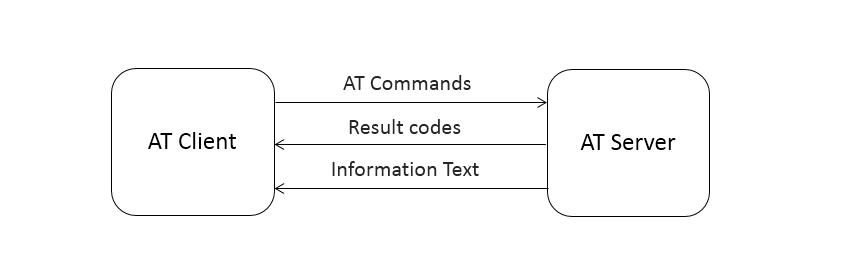
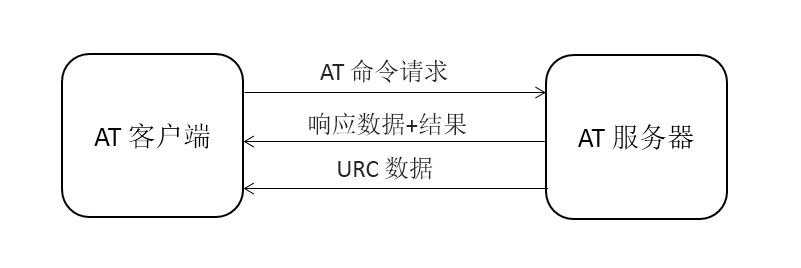
【完善】AT 组件文档部分细节

diff --git a/zh/1chapters/17-chapter_at.md b/zh/1chapters/17-chapter_at.md
@@ -19,19 +19,24 @@ AT 命令集是一种应用于 AT 服务器（AT Server）与 AT 客户端（AT 
 
 - AT 功能的实现需要 AT Server 和 AT Client 两个部分共同完成；
 
-- AT Server 主要用于接收 AT Client 发送的命令，判断接收的命令及参数格式，并下发对应的回应数据，或者主动下发数据；
+- AT Server 主要用于接收 AT Client 发送的命令，判断接收的命令及参数格式，并下发对应的响应数据，或者主动下发数据；
 
-- AT Client 主要用于发送命令、等待 AT Server 回应，并对 AT Server 回应数据或主动发送的数据进行解析处理，获取相关信息。
+- AT Client 主要用于发送命令、等待 AT Server 响应，并对 AT Server 响应数据或主动发送的数据进行解析处理，获取相关信息。
 
 - AT Server 和 AT Client 之间支持多种数据通讯的方式（UART、SPI等），目前最常用的是串口 UART 通讯方式。
 
-- AT Server 向 AT Client 发送的数据分成两种：回应数据和 URC 数据。其中回应数据是 AT Client 发送命令之后收到的 AT Server 回应状态和信息；URC 数据是 AT Server 主动发送给 AT Client 的数据。URC 数据一般出现在一些特殊的情况，比如 WIFI 连接断开、TCP 接收数据等，这些情况往往需要用户做出相应操作。
+- AT Server 向 AT Client 发送的数据分成两种：响应数据和 URC 数据。
+
+    - 响应数据： AT Client 发送命令之后收到的 AT Server 响应状态和信息；
+    - URC 数据： AT Server 主动发送给 AT Client 的数据，一般出现在一些特殊的情况，比如 WIFI 连接断开、TCP 接收数据等，这些情况往往需要用户做出相应操作。
 
 ### AT 组件介绍 ###
 
-AT 组件是基于 RT-Thread 系统的 `AT Server` 和 `AT Client` 的实现，组件完成 AT 命令的发送、命令格式及参数判断、命令的回应、回应数据的接收、回应数据的解析、URC 数据处理等整个 AT 命令数据交互流程。设备通过 AT 组件设备可以作为 AT Client 使用串口连接其他设备发送并接收解析数据，可以作为 AT Server 让其他设备甚至电脑端连接完成发送数据的回应，也可以在本地 shell 启动 CLI 模式使设备同时支持 AT Server 和 AT Clinet 功能，该模式多用于设备开发调试。
+AT 组件是基于 RT-Thread 系统的 `AT Server` 和 `AT Client` 的实现，组件完成 AT 命令的发送、命令格式及参数判断、命令的响应、响应数据的接收、响应数据的解析、URC 数据处理等整个 AT 命令数据交互流程。通过 AT 组件设备可以作为 AT Client 使用串口连接其他设备发送并接收解析数据，可以作为 AT Server 让其他设备甚至电脑端连接完成发送数据的响应，也可以在本地 shell 启动 CLI 模式使设备同时支持 AT Server 和 AT Clinet 功能，该模式多用于设备开发调试。
 
-AT 组件代码主要位于`rt-thread/components/net/at/`目录中。主要的功能包括如下,  
+AT 组件中 AT Client 功能占用资源体积为 4.3K ROM 和 2.0K RAM；AT Server 功能占用资源体积为 4.0K ROM 和 2.5K RAM；AT CLI 功能占用资源体积为 1.5K ROM 几乎没有使用 RAM。AT 组件总体资源占用极小，因此非常适用应用于资源有限的嵌入式设备中。
+
+AT 组件代码主要位于 `rt-thread/components/net/at/` 目录中。主要的功能包括如下,  
 
 AT Server 主要功能特点： 
 
@@ -44,7 +49,7 @@ AT Server 主要功能特点：
  AT Client 主要功能： 
 
  - URC 数据处理： 完备的 URC 数据的处理方式； 
- - 数据解析： 支持自定义回应数据的解析方式，方便获取回应数据中相关信息；
+ - 数据解析： 支持自定义响应数据的解析方式，方便获取响应数据中相关信息；
  - 调试模式： 提供 AT Client CLI 命令行交互模式，主要用于设备调试。
  - AT Socket：作为 AT Client 功能的延伸，使用 AT 命令收发作为基础，实现标准的 `POSIX` 网络接口，完成数据的收发功能，使用户通过 AT 命令完成设备连网和数据通讯。
 
@@ -331,9 +336,22 @@ AT Server 默认已支持多种基础命令（ATE、ATZ 等），其中部分命
 - `RT_AT_CLIENT_DEVICE`： 定义设备上 AT Client 功能使用的串口通讯设备的名称，确保未被使用且设备唯一，这里使用的是 `uart2` 设备；
 - `RT_AT_SERVER_RECV_BUFF_LEN`：定义 AT Client 设备最大接收数据的长度；
 
-AT Client 中的调试配置方式和 AT Server 中一致，这里不再重复介绍。
+上面配置选项可以直接在 `rtconfig.h` 文件中添加使用，也可以通过组件包管理工具 ENV 配置选项加入，ENV 中具体路径如下：
 
-上面配置选项可以直接在 `rtconfig.h` 文件中添加使用，也可以通过组件包管理工具 ENV 配置选项加入，ENV 配置选项的位置和 AT Server 中配置一致。添加配置完成之后可以使用命令行重新生成工程，或使用 scons 来进行编译生成。
+```C
+RT-Thread Components  ---> 
+     Network stack  --->
+        AT commands  --->
+             [*] Enable AT commands 
+             [ ]   Enable debug log output    
+             [ ]   Enable AT commands server
+             [*]   Enable AT commands client
+             (uart2) Client device name
+             (512)   The maximum length of client data accepted        
+             [ ]   Enable print RAW format AT command communication data           
+```
+
+添加配置完成之后可以使用命令行重新生成工程，或使用 scons 来进行编译生成。
 
 ### AT Client 初始化 ###
 
@@ -368,73 +386,73 @@ struct rt_at_response
 typedef struct rt_at_response *rt_at_response_t;
 ```
 
-AT 组件中，该结构体用于定义一个 AT Server 回应数据的控制块，用于存放或者限制 AT Server 返回数据的部分格式。其中 `buf` 用于存放接收到的回应数据，注意的是 buf 中存放的数据并不是原始回应数据，而是原始回应数据去除结束符（"\r\n"）的数据，buf 中每行数据以 '\0' 分割，方便按行获取数据。`buf_size` 为用户自定义本次回应最大支持的接收数据的长度，由用户根据自己命令返回值长度定义。`line_num` 为用户自定义的本次回应数据需要接收的行数，如果没有行数限定需求可以置为 0。 `line_counts` 用于记录本次回应数据总行数。`timeout` 为用户自定义的本次回应数据最大回应时间。该结构体中 `buf_size`、`line_num`、`timeout` 三个参数为限制条件，在结构体创建时设置，其他参数为存放数据参数，用于后面数据解析。
+AT 组件中，该结构体用于定义一个 AT Server 响应数据的控制块，用于存放或者限制 AT Server 返回数据的部分格式。其中 `buf` 用于存放接收到的响应数据，注意的是 buf 中存放的数据并不是原始响应数据，而是原始响应数据去除结束符（"\r\n"）的数据，buf 中每行数据以 '\0' 分割，方便按行获取数据。`buf_size` 为用户自定义本次响应最大支持的接收数据的长度，由用户根据自己命令返回值长度定义。`line_num` 为用户自定义的本次响应数据需要接收的行数，如果没有行数限定需求可以置为 0。 `line_counts` 用于记录本次响应数据总行数。`timeout` 为用户自定义的本次响应数据最大响应时间。该结构体中 `buf_size`、`line_num`、`timeout` 三个参数为限制条件，在结构体创建时设置，其他参数为存放数据参数，用于后面数据解析。
 
 相关 API 接口介绍：
 
-#### 创建回应结构体 ####
+#### 创建响应结构体 ####
 
     rt_at_response_t rt_at_create_resp(rt_size_t buf_size, rt_size_t line_num, rt_int32_t timeout);
 
-该函数用于创建自定义的回应数据接收结构，用于后面接收并解析发送命令回应数据。
+该函数用于创建自定义的响应数据接收结构，用于后面接收并解析发送命令响应数据。
 
 + 参数
 
-    buf_size： 本次回应最大支持的接收数据的长度。  
-    line_num： 本次回应需要返回数据的行数，行数是以标准结束符划分。  
-               若为 0 ，则接收到 "OK" 或 "ERROR" 数据后结束本次回应接收。  
+    buf_size： 本次响应最大支持的接收数据的长度。  
+    line_num： 本次响应需要返回数据的行数，行数是以标准结束符划分。  
+               若为 0 ，则接收到 "OK" 或 "ERROR" 数据后结束本次响应接收。  
                若大于 0，接收完当前设置行号的数据后返回成功。  
-    timeout：  本次回应数据最大回应时间，数据接收超时返回错误。
+    timeout：  本次响应数据最大响应时间，数据接收超时返回错误。
 
 + 返回
 
-    != NULL： 成功，返回指向回应结构体的指针。  
+    != NULL： 成功，返回指向响应结构体的指针。  
      = NULL： 失败，内存不足
 
-#### 删除回应结构体 ####
+#### 删除响应结构体 ####
 
     void rt_at_delete_resp(rt_at_response_t resp);
 
-该函数用于删除创建的回应结构体对象，一般与 **rt_at_create_resp** 创建函数成对出现。
+该函数用于删除创建的响应结构体对象，一般与 **rt_at_create_resp** 创建函数成对出现。
 
 + 参数
 
-    resp： 准备删除的回应结构体指针。
+    resp： 准备删除的响应结构体指针。
 
 + 返回
 
     无
 
-#### 设置回应结构体参数 ####
+#### 设置响应结构体参数 ####
 
     rt_at_response_t rt_at_resp_set_info(rt_at_response_t resp, rt_size_t buf_size, rt_size_t line_num, rt_int32_t timeout);
 
-该函数用于设置已经创建的回应结构体信息，主要设置对回应数据的限制信息，一般用于创建结构体之后，发送 AT 命令之前。
+该函数用于设置已经创建的响应结构体信息，主要设置对响应数据的限制信息，一般用于创建结构体之后，发送 AT 命令之前。
 
 + 参数
 
-    resp： 已经创建的回应结构体指针。  
-    buf_size： 本次回应最大支持的接收数据的长度。  
-    line_num： 本次回应需要返回数据的行数，行数是以标准结束符划分。  
-               若为 0 ，则接收到 "OK" 或 "ERROR" 数据后结束本次回应接收。  
+    resp： 已经创建的响应结构体指针。  
+    buf_size： 本次响应最大支持的接收数据的长度。  
+    line_num： 本次响应需要返回数据的行数，行数是以标准结束符划分。  
+               若为 0 ，则接收到 "OK" 或 "ERROR" 数据后结束本次响应接收。  
                若大于 0，接收到当前设置行号数据后返回成功。  
-    timeout：  本次回应数据最大回应时间，数据接收超时返回错误。
+    timeout：  本次响应数据最大响应时间，数据接收超时返回错误。
 
 + 返回
 
-    != NULL： 成功，返回修改过参数的回应结构体的指针。  
+    != NULL： 成功，返回修改过参数的响应结构体的指针。  
      = NULL： 失败，内存不足
 
 
-#### 发送命令并接收回应 ####
+#### 发送命令并接收响应 ####
 
 `rt_err_t rt_at_exec_cmd(rt_at_response_t resp const char *cmd_expr, ...);`
 
-该函数用于 AT Client 发送命令到 AT Server，并等待接收回应，其中 `resp` 是已经创建好回应结构体的指针，AT 命令的输入使用匹配表达式的可变参输入。
+该函数用于 AT Client 发送命令到 AT Server，并等待接收响应，其中 `resp` 是已经创建好响应结构体的指针，AT 命令的输入使用匹配表达式的可变参输入。
 
 + 参数
 
-    resp： 创建的回应结构体指针。  
+    resp： 创建的响应结构体指针。  
     cmd_expr： 自定义输入命令的表达式。    
     ...： 输入命令数据列表，为可变参数。  
 
@@ -442,13 +460,13 @@ AT 组件中，该结构体用于定义一个 AT Server 回应数据的控制块
 
     \>=0： 成功  
       -1： 失败  
-      -2： 失败，接收回应超时  
+      -2： 失败，接收响应超时  
 
 可参考以下代码了解如何使用以上几个 AT 命令收发相关函数使用方式：
 
 ```c
 /*
- * 程序清单：AT Client发送命令并接收回应例程
+ * 程序清单：AT Client发送命令并接收响应例程
  */
 
 #include <rtthread.h>
@@ -464,7 +482,7 @@ int at_client_send(int argc, char **argv)
         return -RT_ERROR;
     }
 
-    /* 创建回应结构体，设置最大支持回应数据长度为 512 字节，回应数据行数无限制，超时时间为 5 秒 */
+    /* 创建响应结构体，设置最大支持响应数据长度为 512 字节，响应数据行数无限制，超时时间为 5 秒 */
     resp = rt_at_create_resp(512, 0, rt_tick_from_millisecond(5000));
     if (!resp)
     {
@@ -472,7 +490,7 @@ int at_client_send(int argc, char **argv)
         return -RT_ENOMEM;
     }
    
-    /* 发送 AT 命令并接收 AT Server 回应数据，数据及信息存放在 resp 结构体中 */
+    /* 发送 AT 命令并接收 AT Server 响应数据，数据及信息存放在 resp 结构体中 */
     if (rt_at_exec_cmd(resp, argv[1]) != RT_EOK)
     {
         LOG_E("AT client send commands failed, response error or timeout !");
@@ -482,7 +500,7 @@ int at_client_send(int argc, char **argv)
     /* 命令发送成功 */
     LOG_D("AT Client send commands to AT Server success!");
 
-    /* 删除回应结构体 */
+    /* 删除响应结构体 */
     rt_at_delete_resp(resp);
 
     return RT_EOK;
@@ -494,23 +512,23 @@ MSH_CMD_EXPORT(at_clinet_send, AT Client send commands to AT Server and get resp
 #endif
 ```
 
-发送和接收数据实现原理比较简单，主要是对 AT Client 绑定的串口设备的读写操作，并设置相关行数和超时来限制回应数据，值得注意的是，正常情况下需要先创建 resp 回应结构体传入 rt_at_exec_cmd 函数用于数据的接收，当 rt_at_exec_cmd 函数传入 resp 为空时说明本次发送数据不考虑处理回应数据直接返回结果。
+发送和接收数据实现原理比较简单，主要是对 AT Client 绑定的串口设备的读写操作，并设置相关行数和超时来限制响应数据，值得注意的是，正常情况下需要先创建 resp 响应结构体传入 rt_at_exec_cmd 函数用于数据的接收，当 rt_at_exec_cmd 函数传入 resp 为空时说明本次发送数据不考虑处理响应数据直接返回结果。
 
 ### 数据解析 ###
 
-数据正常获取之后，需要对回应的数据进行解析处理，这也是 AT Client 重要的功能之一。 AT Client 中数据的解析提供自定义解析表达式的解析形式，其解析语法使用标准的 `sscanf` 解析语法。开发者可以通过自定义数据解析表达式回去回应数据中有用信息，前提是开发者需要提前查看相关手册了解 AT Client 连接的 AT Server 设备回应数据的基本格式。下面通过几个函数和例程简单 AT Client 数据解析方式。
+数据正常获取之后，需要对响应的数据进行解析处理，这也是 AT Client 重要的功能之一。 AT Client 中数据的解析提供自定义解析表达式的解析形式，其解析语法使用标准的 `sscanf` 解析语法。开发者可以通过自定义数据解析表达式回去响应数据中有用信息，前提是开发者需要提前查看相关手册了解 AT Client 连接的 AT Server 设备响应数据的基本格式。下面通过几个函数和例程简单 AT Client 数据解析方式。
 
 相关 API 接口：
 
-#### 获取指定行号的回应数据 ####
+#### 获取指定行号的响应数据 ####
 
     const char *at_resp_get_line(rt_at_response_t resp, rt_size_t resp_line);
 
-该函数用于在 AT Server 回应数据中获取指定行号的一行数据。行号是以标准数据结束符来判断的，上述发送和接收函数 rt_at_exec_cmd 已经对回应数据的数据和行号进行记录处理存放于 resp 回应结构体中，这里可以直接获取对应行号的数据信息。
+该函数用于在 AT Server 响应数据中获取指定行号的一行数据。行号是以标准数据结束符来判断的，上述发送和接收函数 rt_at_exec_cmd 已经对响应数据的数据和行号进行记录处理存放于 resp 响应结构体中，这里可以直接获取对应行号的数据信息。
 
 + 参数
 
-    resp： 回应结构体指针。  
+    resp： 响应结构体指针。  
     resp_line： 需要获取数据的行号。   
 
 + 返回
@@ -519,15 +537,15 @@ MSH_CMD_EXPORT(at_clinet_send, AT Client send commands to AT Server and get resp
      = NULL： 失败，输入行号错误。  
 
 
-#### 解析指定行号的回应数据 ####
+#### 解析指定行号的响应数据 ####
 
     int at_resp_parse_line_args(rt_at_response_t resp, rt_size_t resp_line, const char *resp_expr, ...);
 
-该函数用于在 AT Server 回应数据中获取指定行号的一行数据, 并解析该行数据中的参数。
+该函数用于在 AT Server 响应数据中获取指定行号的一行数据, 并解析该行数据中的参数。
 
 + 参数
 
-    resp： 回应结构体指针。  
+    resp： 响应结构体指针。  
     resp_line： 需要解析数据的行号。
     resp_expr： 自定义的参数解析表达式。  
     ...： 解析参数列表，为可变参数。  
@@ -549,7 +567,7 @@ MSH_CMD_EXPORT(at_clinet_send, AT Client send commands to AT Server and get resp
     
     AT+UART?
 
-客户端获取回应的数据：
+客户端获取响应的数据：
     
     UART=115200,8,1,0,0\r\n
     OK\r\n
@@ -557,19 +575,19 @@ MSH_CMD_EXPORT(at_clinet_send, AT Client send commands to AT Server and get resp
 解析伪代码如下：
 
 ```c
-/* 创建服务器回应结构体，64 为用户自定义接收数据最大长度 */
+/* 创建服务器响应结构体，64 为用户自定义接收数据最大长度 */
 resp = rt_at_create_resp(64, 0, rt_tick_from_millisecond(5000));
 
-/* 发送数据到服务器，并接收回应数据存放在 resp 结构体中 */
+/* 发送数据到服务器，并接收响应数据存放在 resp 结构体中 */
 rt_at_exec_cmd(resp, "AT+UART?");
 
-/* 解析获取串口配置信息，1 表示解析回应数据第一行，'%*[^=]'表示忽略等号之前的数据 */
+/* 解析获取串口配置信息，1 表示解析响应数据第一行，'%*[^=]'表示忽略等号之前的数据 */
 at_resp_parse_line_args(resp, 1,"%*[^=]=%d,%d,%d,%d,%d", &baudrate, &databits,
         &stopbits, &parity, &control);    // 
 printf("baudrate=%d, databits=%d, stopbits=%d, parity=%d, control=%d\n", 
         baudrate, databits, stopbits, parity, control);
 
-/* 删除服务器回应结构体 */
+/* 删除服务器响应结构体 */
 rt_at_delete_resp(resp);
 ```
 
@@ -579,29 +597,29 @@ rt_at_delete_resp(resp);
     
      AT+IPMAC?
 
-服务器获取回应的数据：
+服务器获取响应的数据：
 
-    IP="192.168.1.10"\r\n
-    MAC="12:34:56:78:9a:bc"\r\n
+    IP=192.168.1.10\r\n
+    MAC=12:34:56:78:9a:bc\r\n
     OK\r\n   
 
 解析伪代码如下：
 
 ```c
-/* 创建服务器回应结构体，128 为用户自定义接收数据最大长度 */
+/* 创建服务器响应结构体，128 为用户自定义接收数据最大长度 */
 resp = rt_at_create_resp(128, 0, rt_tick_from_millisecond(5000));
 
 rt_at_exec_cmd(resp, "AT+IPMAC?");
 
-/* '%*[^\"]' 表示忽略双引号之前数据， '\"%[^\"]\"' 表示匹配双引号内非双引号数据为输出结果 */
-at_resp_parse_line_args(resp, 1,"%*[^\"]\"%[^\"]\"", ip);   
-at_resp_parse_line_args(resp, 2,"%*[^\"]\"%[^\"]\"", mac);
+/* 自定义解析表达式，解析当前行号数据中的信息 */
+at_resp_parse_line_args(resp, 1,"IP=%s", ip);   
+at_resp_parse_line_args(resp, 2,"MAC=%s", mac);
 printf("IP=%s, MAC=%s\n", ip, mac);
 
 rt_at_delete_resp(resp);
 ```
 
-解析数据的关键在于解析表达式的正确定义，因为对于 AT 设备的回应数据，不同设备厂家不同命令的回应数据格式不唯一，所以只能提供自定义解析表达式的形式获取需要信息，at_resp_parse_line_args 解析参数函数的设计基于 `sscanf` 数据解析方式，开发者使用之前需要先了解基本的解析语法，再结合回应数据设计合适的解析语法。如果开发者不需要解析具体参数，可以直接使用 at_resp_get_line 函数获取一行的具体数据。
+解析数据的关键在于解析表达式的正确定义，因为对于 AT 设备的响应数据，不同设备厂家不同命令的响应数据格式不唯一，所以只能提供自定义解析表达式的形式获取需要信息，at_resp_parse_line_args 解析参数函数的设计基于 `sscanf` 数据解析方式，开发者使用之前需要先了解基本的解析语法，再结合响应数据设计合适的解析语法。如果开发者不需要解析具体参数，可以直接使用 at_resp_get_line 函数获取一行的具体数据。
 
 
 ### URC 数据处理 ###
@@ -654,10 +672,10 @@ static void urc_conn_func(const char *data, rt_size_t size)
     LOG_D("AT Server device WIFI connect success!");
 }
 
-static void urc_disconn_func(const char *data, rt_size_t size)
+static void urc_recv_func(const char *data, rt_size_t size)
 {
-    /* WIFI 连接断开信息 */
-    LOG_D("AT Server device WIFI disconnected!");
+    /* 接收到服务器发送数据 */
+    LOG_D("AT Client receive AT Server data!");
 }
 
 static void urc_func(const char *data, rt_size_t size)
@@ -668,7 +686,7 @@ static void urc_func(const char *data, rt_size_t size)
 
 static struct rt_at_urc urc_table[] = {
     {"WIFI CONNECTED",   "\r\n",     urc_conn_func},
-    {"WIFI DISCONNECT",  "\r\n",     urc_disconn_func},
+    {"+RECV",            ":",        urc_recv_func},
     {"RDY",              "\r\n",     urc_func},
 };
 
